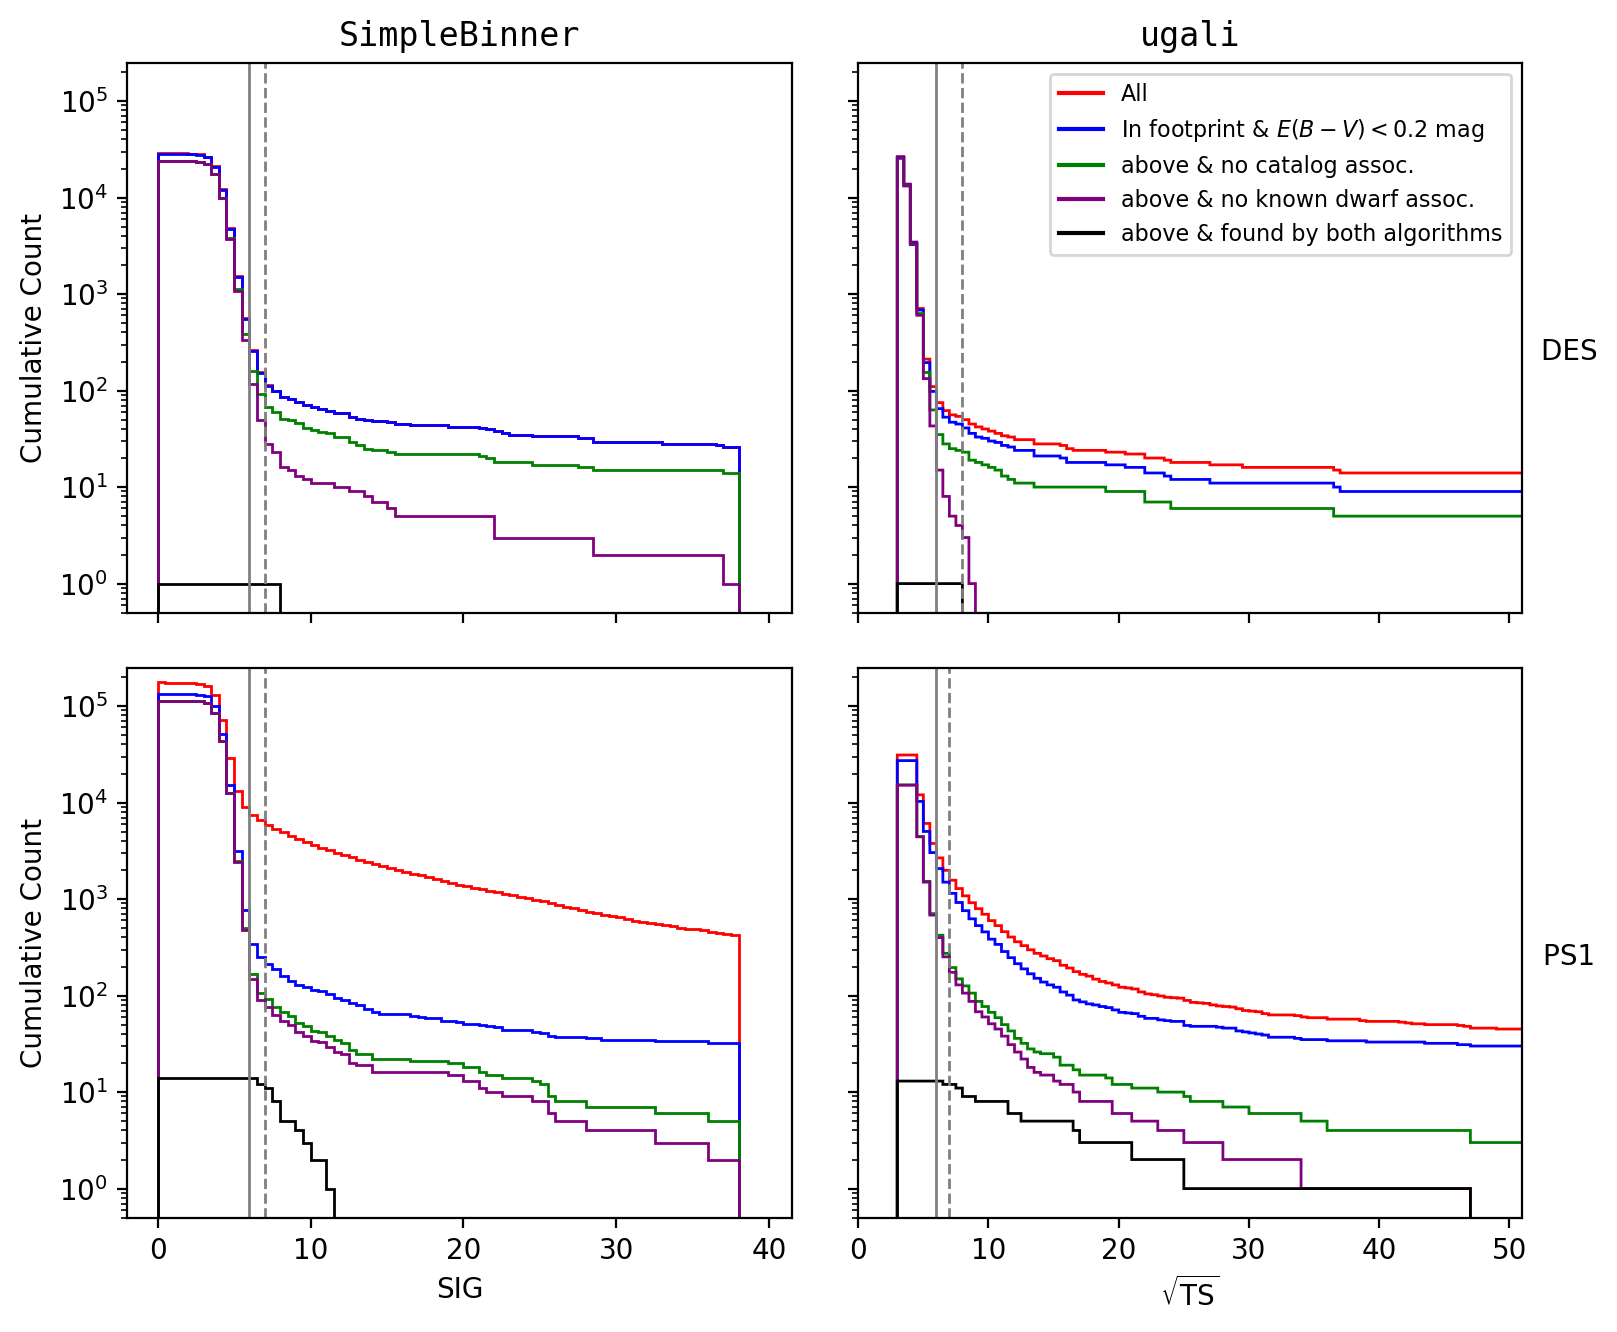
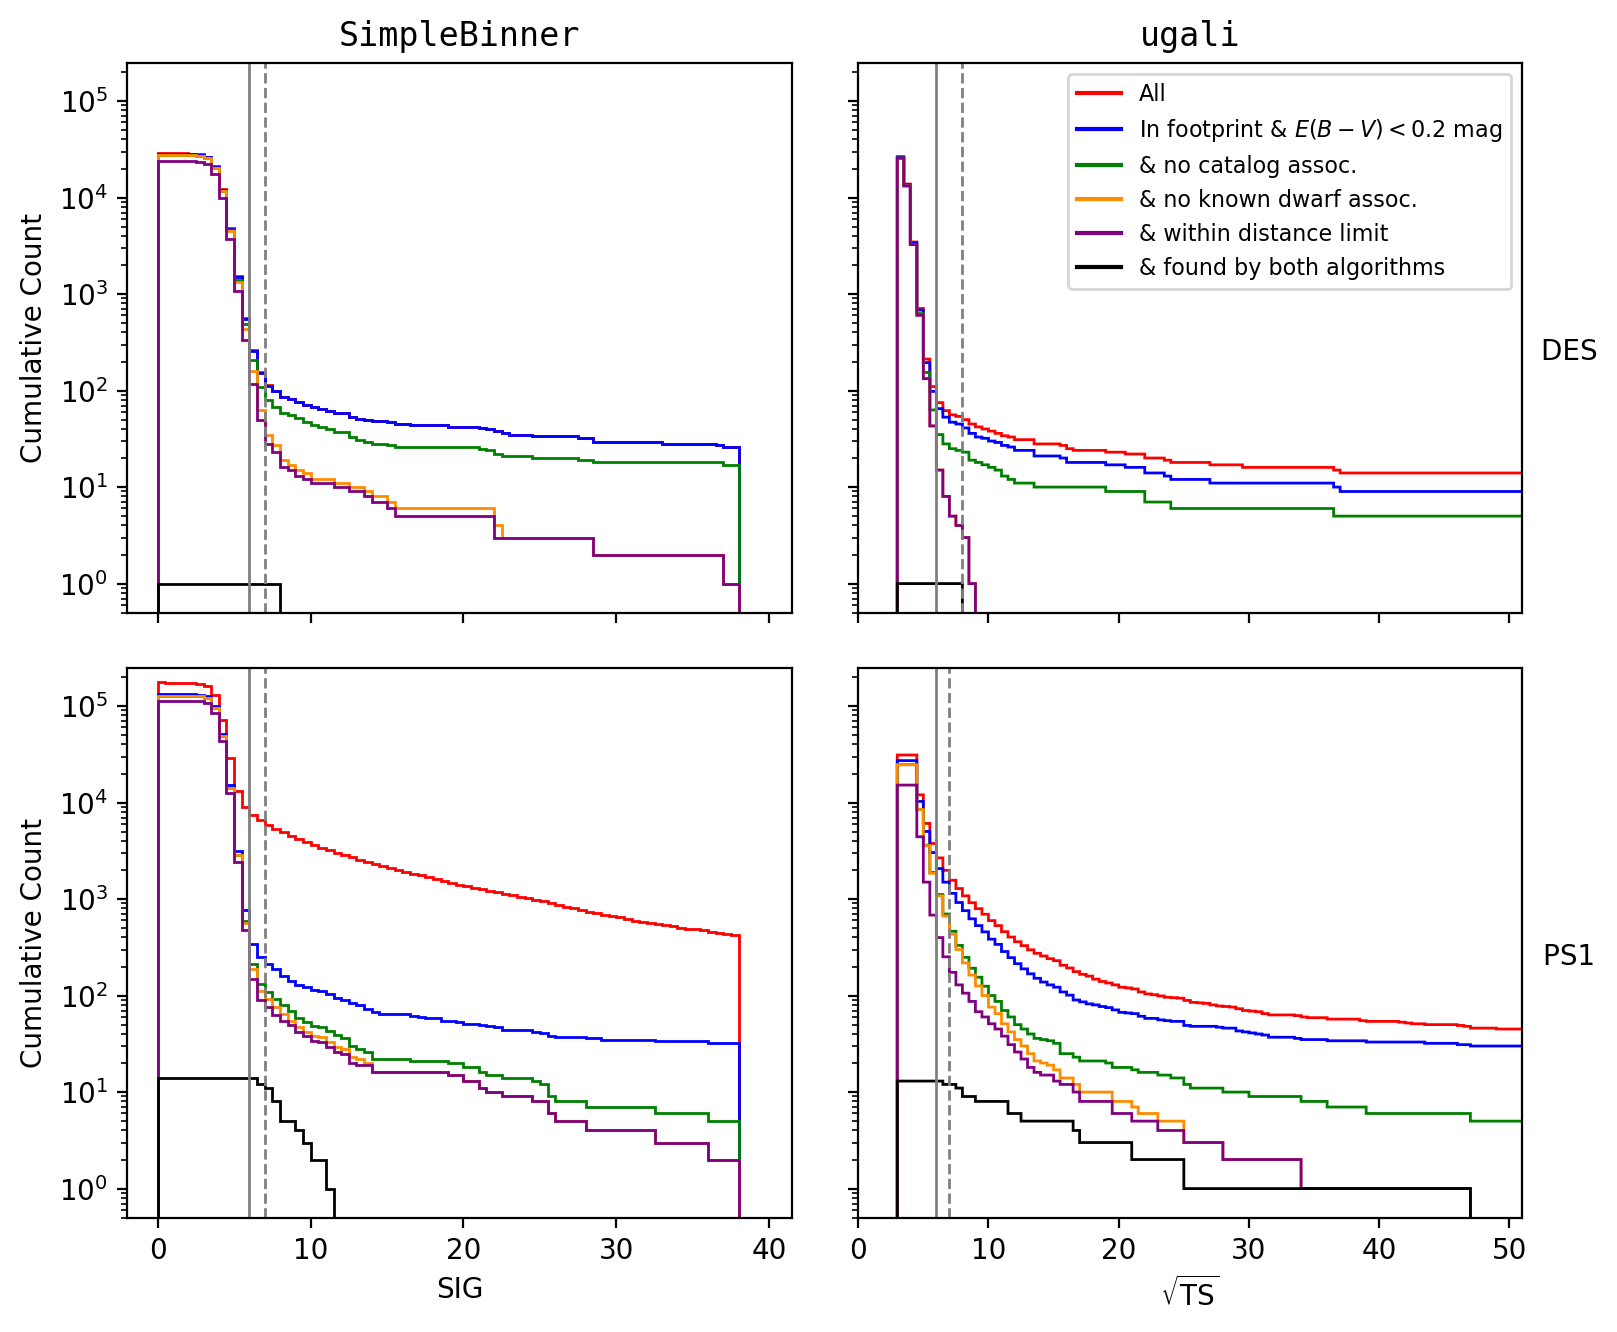
Added modulus cut to the 4-panel significance histogram

diff --git a/run_filters.py b/run_filters.py
@@ -71,12 +71,11 @@ def sighist(cands, ax, legend=True, title=True, text=True, xlabel=True, ylabel=T
     ax.set_yscale('log')
     ax.hist(sigs, bins=bins, color='red', histtype='step', cumulative=-1, label='All')
     ax.hist(sigs[cands.cut_ebv & cands.cut_footprint], bins=bins, color='blue', histtype='step', cumulative=-1, label= r'In footprint & $E(B-V) < 0.2$ mag')
-    #ax.hist(sigs[cands.cut_ebv & cands.cut_footprint & cands.cut_modulus], bins=bins, color='darkturquoise', histtype='step', cumulative=-1, label=r'above & $m - M < {}$'.format(21.75 if cands.survey == 'ps1' else 23.5))
-    #ax.hist(sigs[cands.cut_ebv & cands.cut_footprint & cands.cut_modulus & cands.cut_bsc], bins=bins, color='orange', histtype='step', cumulative=-1, label='above & no bright star assoc.') 
-    ax.hist(sigs[cands.cut_ebv & cands.cut_footprint & cands.cut_modulus & cands.cut_associate & cands.cut_bsc], bins=bins, color='green', histtype='step', cumulative=-1, label='above & no catalog assoc.') # = cands.cut_bulk
-    ax.hist(sigs[cands.cut_bulk & cands.cut_dwarfs], bins=bins, color='purple', histtype='step', cumulative=-1, label='above & no known dwarf assoc.')
+    ax.hist(sigs[cands.cut_ebv & cands.cut_footprint & cands.cut_associate & cands.cut_bsc], bins=bins, color='green', histtype='step', cumulative=-1, label='& no catalog assoc.') # =
+    ax.hist(sigs[cands.cut_ebv & cands.cut_footprint & cands.cut_associate & cands.cut_bsc & cands.cut_dwarfs], bins=bins, color='darkorange', histtype='step', cumulative=-1, label='& no known dwarf assoc.')
+    ax.hist(sigs[cands.cut_ebv & cands.cut_footprint & cands.cut_associate & cands.cut_bsc & cands.cut_dwarfs & cands.cut_modulus], bins=bins, color='purple', histtype='step', cumulative=-1, label='& within distance limit')
     if cands.cross:
-        ax.hist(sigs[cands.cut_bulk & cands.cut_dwarfs & cands.cut_cross], bins=bins, color='black', histtype='step', cumulative=-1, label='above & found by both algorithms') 
+        ax.hist(sigs[cands.cut_bulk & cands.cut_dwarfs & cands.cut_cross], bins=bins, color='black', histtype='step', cumulative=-1, label='& found by both algorithms') 
     if legend:
         handles, labels = ax.get_legend_handles_labels()
         new_handles = [Line2D([], [], c=h.get_edgecolor()) for h in handles]
@@ -95,6 +94,7 @@ def sighist(cands, ax, legend=True, title=True, text=True, xlabel=True, ylabel=T
 
     ax.axvline(fiducial_threshold, color='gray', linestyle='-', linewidth=1.0)
     ax.axvline(conservative_threshold, color='gray', linestyle='--', linewidth=1.0)
+
     
 fig, axes = plt.subplots(nrows=2, ncols=2, sharex='col', sharey='all', figsize=(9, 7.5))
 sighist(des_simple, axes[0,0], title=True, text=False, legend=False, xlabel=False, ylabel=True)

diff --git a/fiducial_results/tables/signal_ps1.tex b/fiducial_results/tables/signal_ps1.tex
@@ -11,7 +11,7 @@
 \tablecaption{\knowncaption}
 \tablehead{
 \colhead{(1)} & \colhead{(2)} & \colhead{(3)} & \colhead{(4)} & \colhead{(5)} & \colhead{(6)} & \colhead{(7)} & \colhead{(8)} & \colhead{(9)} & \colhead{(10)} & \colhead{(11)} & \colhead{(12)} \\
- \colhead{Name} & \colhead{$\sqrt{\mathrm{TS}}$} & \colhead{SIG} & \colhead{$P_{\rm det} \hspace{0.3in}$} & \colhead{RA} & \colhead{Dec} & \colhead{$m - M$} & \colhead{$r_{1/2}$} & \colhead{Distance} & \colhead{$r_{1/2}$} & \colhead{$M_V$} & \colhead{Ref.} \\
+ \colhead{Name} & \colhead{$\sqrt{\mathrm{TS}}$} & \colhead{SIG} & \colhead{$P_{\rm det}$} & \colhead{RA} & \colhead{Dec} & \colhead{$m - M$} & \colhead{$r_h$} & \colhead{Distance} & \colhead{$r_{1/2}$} & \colhead{$M_V$} & \colhead{Ref.} \\
  \colhead{} & \colhead{} & \colhead{} & \colhead{} & \colhead{(deg)} & \colhead{(deg)} & \colhead{} & \colhead{($'$)} & \colhead{(kpc)} & \colhead{(pc)} & \colhead{(mag)} & \colhead{}  }
 \startdata
 Leo I\tablenotemark{a} & 157.6 & 37.5 & 1.00 & 152.12 & 12.31 & 22.1 & 3.6 & 258 & 274 & -11.8 & 1\\

diff --git a/fiducial_results/tables/signal_des.tex b/fiducial_results/tables/signal_des.tex
@@ -8,7 +8,7 @@
 \tablecaption{\knowncaption}
 \tablehead{
 \colhead{(1)} & \colhead{(2)} & \colhead{(3)} & \colhead{(4)} & \colhead{(5)} & \colhead{(6)} & \colhead{(7)} & \colhead{(8)} & \colhead{(9)} & \colhead{(10)} & \colhead{(11)} & \colhead{(12)} \\
- \colhead{Name} & \colhead{$\sqrt{\mathrm{TS}}$} & \colhead{SIG} & \colhead{$P_{\rm det} \hspace{0.3in}$} & \colhead{RA} & \colhead{Dec} & \colhead{$m - M$} & \colhead{$r_{1/2}$} & \colhead{Distance} & \colhead{$r_{1/2}$} & \colhead{$M_V$} & \colhead{Ref.} \\
+ \colhead{Name} & \colhead{$\sqrt{\mathrm{TS}}$} & \colhead{SIG} & \colhead{$P_{\rm det}$} & \colhead{RA} & \colhead{Dec} & \colhead{$m - M$} & \colhead{$r_h$} & \colhead{Distance} & \colhead{$r_{1/2}$} & \colhead{$M_V$} & \colhead{Ref.} \\
  \colhead{} & \colhead{} & \colhead{} & \colhead{} & \colhead{(deg)} & \colhead{(deg)} & \colhead{} & \colhead{($'$)} & \colhead{(kpc)} & \colhead{(pc)} & \colhead{(mag)} & \colhead{}  }
 \startdata
 Fornax & 480.1 & 37.5 & 1.00 & 40.00 & -34.45 & 20.8 & 19.6 & 147 & 839 & -13.5 & 1\\
